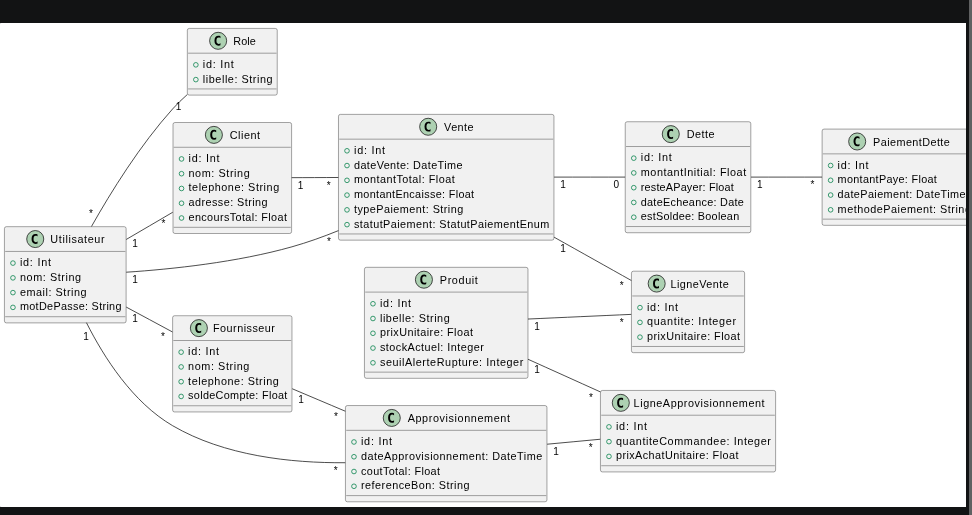
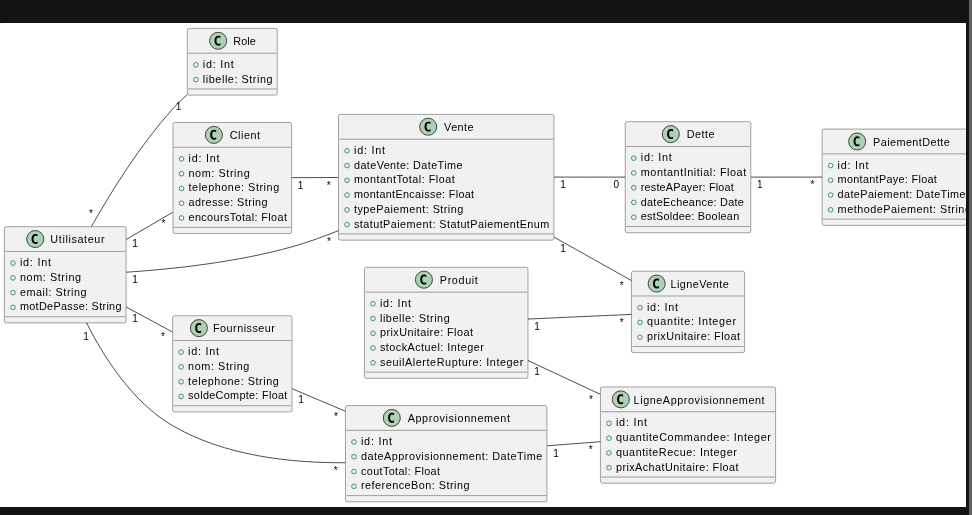
feat(supplies): ajout de la reception de bons de livraison et incrementation automatique du stock

Changed region(s): [[0.5556, 0.7456, 0.8025, 0.9631], [0.5556, 0.7146, 0.5864, 0.7456]]

diff --git a/views/approvisionnement/index.php b/views/approvisionnement/index.php
@@ -1,0 +1,165 @@
+ <?php 
+ $data = $data ?? [];
+ $approvisionnements = $data["approvisionnements"];
+ ?>
+ <div>
+     <!-- Supplies Stats Grid -->
+     <div style="display: grid; grid-template-columns: repeat(3, 1fr); gap: 16px; margin-bottom: 24px;">
+         <div class="panel-card" style="padding: 16px; display: flex; align-items: center; justify-content: space-between; border-left: 4px solid var(--accent);">
+             <div>
+                 <span style="font-size: 10px; color: var(--text-muted); text-transform: uppercase; font-weight: 700;">Coût Total des Entrées</span>
+                 <div style="font-size: 18px; font-weight: 800; color: white; margin-top: 4px;">4 520 000 F</div>
+             </div>
+             <span style="font-size: 24px;">📥</span>
+         </div>
+         <div class="panel-card" style="padding: 16px; display: flex; align-items: center; justify-content: space-between; border-left: 4px solid var(--warning);">
+             <div>
+                 <span style="font-size: 10px; color: var(--text-muted); text-transform: uppercase; font-weight: 700;">Bons de Réception (BL)</span>
+                 <div style="font-size: 18px; font-weight: 800; color: white; margin-top: 4px;">2 BL reçus</div>
+             </div>
+             <span style="font-size: 24px;">📄</span>
+         </div>
+         <div class="panel-card" style="padding: 16px; display: flex; align-items: center; justify-content: space-between; border-left: 4px solid var(--success);">
+             <div>
+                 <span style="font-size: 10px; color: var(--text-muted); text-transform: uppercase; font-weight: 700;">Fournisseurs Actifs</span>
+                 <div style="font-size: 18px; font-weight: 800; color: white; margin-top: 4px;">3 entreprises</div>
+             </div>
+             <span style="font-size: 24px;">🤝</span>
+         </div>
+     </div>
+
+     <div style="display: block;">
+         <!-- Full width: deliveries table list -->
+         <div class="panel-card" style="padding: 20px; margin-bottom: 0;">
+             <div class="panel-title" style="font-size: 15px; margin-bottom: 16px;">Bordereaux de Livraison (Réceptions)</div>
+             <table class="debt-table" id="supplies-main-table" style="font-size: 12px;">
+                 <thead>
+                     <tr>
+                         <th>Réf BL</th>
+                         <th>Fournisseur</th>
+                         <th>Valeur Lot</th>
+                         <th>Statut</th>
+                         <th>Actions</th>
+                     </tr>
+                 </thead>
+                 <tbody>
+                     <?php if (!empty($approvisionnements)): ?>
+                         <?php foreach ($approvisionnements as $appro): ?>
+                             <?php
+                                $approId = $appro['id'];
+                                $isRecu = ($appro['statut'] == 'RECU');
+                                ?>
+                             <tr>
+                                 <td style="font-weight: 700; color: var(--text-muted); padding: 8px 0;">
+                                     BL-<?= $approId ?>
+                                 </td>
+                                 <td style="padding: 8px 0;">
+                                     <?= $appro['fournisseur']['nom'] ?>
+                                     <div style="font-size:10px; color:var(--text-muted);">Tél : <?= $appro['fournisseur']['telephone'] ?></div>
+                                 </td>
+                                 <td style="font-weight: 800; color: var(--accent); padding: 8px 0;">
+                                     <?= $appro['coutTotal'] ?> F
+                                 </td>
+                                 <td style="padding: 8px 0;">
+                                     <?php if ($isRecu): ?>
+                                         <span class="badge badge-success">REÇU</span>
+                                     <?php else: ?>
+                                         <span class="badge badge-warning">EN COURS</span>
+                                     <?php endif; ?>
+                                 </td>
+                                 <td style="padding: 8px 0; display: flex; gap: 6px;">
+                                     <button class="btn-quick-action" onclick="toggleDetails('supply-details-<?= $approId ?>')">Lignes</button>
+                                     <?php if (!$isRecu): ?>
+                                         <button type="button" class="btn-quick-action" style="border-color: var(--success); color: var(--success); background: rgba(52, 211, 153, 0.05);" onclick="toggleDetails('supply-receive-drawer-<?= $approId ?>')">Réceptionner</button>
+                                     <?php endif; ?>
+                                 </td>
+                             </tr>
+                             <tr>
+                                 <td colspan="5" style="padding: 0; border: none;">
+                                     <!-- Drawer 1: Supply lines -->
+                                     <div class="details-drawer" id="supply-details-<?= $approId ?>">
+                                         <div style="font-weight: 700; font-size: 11px; color: var(--accent); margin-bottom: 6px;">Détails Réception :</div>
+                                         <table class="debt-table" style="font-size: 10px;">
+                                             <thead>
+                                                 <tr>
+                                                     <th>Produit</th>
+                                                     <th>Qté Commandée</th>
+                                                     <th>Qté Reçue</th>
+                                                     <th>Coût Unitaire</th>
+                                                     <th>Total</th>
+                                                 </tr>
+                                             </thead>
+                                             <tbody>
+                                                 <?php foreach ($appro['produits'] as $produit): ?>
+                                                     <tr>
+                                                         <td><?= $produit['libelle'] ?></td>
+                                                         <td><?= $produit['quantiteCommandee'] ?></td>
+                                                         <td><?= $produit['quantiteRecu'] ?></td>
+                                                         <td><?= $produit['prixAchatUnitaire'] ?> F</td>
+                                                         <td style="font-weight: 700; color: var(--accent);">
+                                                             <?= $produit['quantiteCommandee'] * $produit['prixAchatUnitaire'] ?> F
+                                                         </td>
+                                                     </tr>
+                                                 <?php endforeach; ?>
+                                             </tbody>
+                                         </table>
+                                     </div>
+
+                                     <!-- Drawer 2: Confirm Reception Form inline -->
+                                     <?php if (!$isRecu): ?>
+                                         <div class="details-drawer" id="supply-receive-drawer-<?= $approId ?>" style="border: 1px solid rgba(52, 211, 153, 0.3); background: linear-gradient(180deg, rgba(11, 15, 25, 0.95) 0%, rgba(11, 15, 25, 0.98) 100%); border-radius: 14px; padding: 18px 20px; box-shadow: 0 10px 30px rgba(0,0,0,0.4); max-width: 850px; margin: 12px 0;">
+
+                                             <!-- Header row -->
+                                             <div style="display: flex; justify-content: space-between; align-items: center; margin-bottom: 14px; border-bottom: 1px dashed var(--border-color); padding-bottom: 10px;">
+                                                 <div style="display: flex; align-items: center; gap: 8px;">
+                                                     <span style="font-size: 16px;">📦</span>
+                                                     <span style="font-weight: 800; font-size: 13px; color: var(--text-main);">
+                                                         Réceptionner le BL — <span style="color: var(--accent);">BL-<?= $approId ?></span>
+                                                     </span>
+                                                 </div>
+                                                 <div style="background: rgba(245, 158, 11, 0.12); border: 1px solid rgba(245, 158, 11, 0.3); padding: 4px 12px; border-radius: 20px; font-size: 11px; font-weight: 800; color: var(--warning);">
+                                                     Fournisseur : <?= $appro['fournisseur']['nom'] ?>
+                                                 </div>
+                                             </div>
+
+                                             <form method="POST" action="http://localhost:8000/approvisionnement/reception">
+                                                 <input type="hidden" name="approvisionnement_id" value="<?= $approId ?>">
+
+                                                 <div style="display: flex; flex-direction: column; gap: 10px; margin-bottom: 16px;">
+                                                     <?php foreach ($appro['produits'] as $produit): ?>
+                                                         <div style="background: rgba(255,255,255,0.02); border: 1px solid var(--border-color); border-radius: 10px; padding: 10px 14px; display: flex; justify-content: space-between; align-items: center;">
+                                                             <div>
+                                                                 <div style="font-weight: 700; font-size: 13px; color: white;"><?= $produit['libelle'] ?></div>
+                                                                 <div style="font-size: 11px; color: var(--text-muted); margin-top: 2px;">
+                                                                     Quantité théorique commandée : <strong style="color: var(--text-main);"><?= $produit['quantiteCommandee'] ?></strong>
+                                                                 </div>
+                                                             </div>
+                                                             <div style="display: flex; align-items: center; gap: 10px;">
+                                                                 <label style="font-size: 10px; color: var(--text-muted); text-transform: uppercase; font-weight: 700;">Qté Reçue :</label>
+                                                                 <input type="number" name="quantites_livrees[<?= $produit['produit_id'] ?>]" class="form-control" value="<?= $produit['quantiteCommandee'] ?>" min="0" required style="width: 100px; padding: 6px 10px; font-size: 13px; font-weight: 700; text-align: center; background: #0b0f1a;">
+                                                             </div>
+                                                         </div>
+                                                     <?php endforeach; ?>
+                                                 </div>
+
+                                                 <div style="display: flex; justify-content: flex-end;">
+                                                     <button type="submit" class="btn-submit btn-success" style="padding: 11px 24px; font-size: 12px; font-weight: 800; text-transform: uppercase; letter-spacing: 0.5px; display: flex; align-items: center; gap: 8px; border-radius: 10px;">
+                                                         ✓ Valider la Réception en Stock
+                                                     </button>
+                                                 </div>
+                                             </form>
+                                         </div>
+                                     <?php endif; ?>
+                                 </td>
+                             </tr>
+                         <?php endforeach; ?>
+                     <?php else: ?>
+                         <tr>
+                             <td colspan="5" style="text-align: center; padding: 20px; color: var(--text-muted);">Aucun approvisionnement trouvé.</td>
+                         </tr>
+                     <?php endif; ?>
+                 </tbody>
+             </table>
+         </div>
+     </div>
+ </div>

diff --git a/src/Repository/ApprovisionnementRepository.php b/src/Repository/ApprovisionnementRepository.php
@@ -1,0 +1,117 @@
+<?php
+
+namespace StoreManagerPro\Src\Repository;
+use PDO;
+
+class ApprovisionnementRepository extends BaseRepository
+{
+
+    public function __construct()
+    {
+        parent::__construct("approvisionnement");
+    }
+
+    public function findAllApproWithDetail(): array
+    {
+        $sql = "select 
+                    a.id as appro_id, 
+                    a.dateApprovisionnement, 
+                    a.couttotal, 
+                    case when la.quantitecommandee >= la.quantiterecu then 'RECU' else 'EN COURS' end as statut,
+                    f.id as fournisseur_id, 
+                    f.nom as fournisseur_nom, 
+                    f.telephone as fournisseur_telephone, 
+                    la.quantitecommandee, 
+                    la.quantiterecu, 
+                    la.prixachatunitaire, 
+                    p.id as produit_id, 
+                    p.libelle as produit_libelle
+                from approvisionnement a 
+                inner join fournisseur f on f.id = a.fournisseur_id
+                left join ligneapprovisionnement la on la.approvisionnement_id = a.id   
+                left join produit p on p.id = la.produit_id";
+
+        $stmt = $this->db->query($sql);
+        $results = $stmt->fetchAll(PDO::FETCH_ASSOC);
+
+        $approvisionnements = [];
+
+        foreach ($results as $r) {
+            $approId = $r['appro_id'];
+
+            if (!isset($approvisionnements[$approId])) {
+                $approvisionnements[$approId] = [
+                    'id' => $approId,
+                    'dateApprovisionnement' => $r['dateApprovisionnement'] ?? null,
+                    'coutTotal' => $r['couttotal'] ?? 0,
+                    'statut' => $r['statut'],
+                    'fournisseur' => [
+                        'id' => $r['fournisseur_id'],
+                        'nom' => $r['fournisseur_nom'],
+                        'telephone' => $r['fournisseur_telephone']
+                    ],
+                    'produits' => []
+                ];
+            }
+
+            if (!empty($r['produit_id'])) {
+                $produitKey = $r['produit_id'];
+                if (!isset($approvisionnements[$approId]['produits'][$produitKey])) {
+                    $approvisionnements[$approId]['produits'][$produitKey] = [
+                        'produit_id' => $r['produit_id'],
+                        'libelle' => $r['produit_libelle'],
+                        'quantiteCommandee' => $r['quantitecommandee'] ?? 0,
+                        'quantiteRecu' => $r['quantiterecu'] ?? 0,
+                        'prixAchatUnitaire' => $r['prixachatunitaire'] ?? 0
+                    ];
+                }
+            }
+        }
+
+        // echo "<pre>";
+        // var_dump($approvisionnements);
+        // echo "</pre>";
+        // die;
+
+
+        return $approvisionnements;
+    }
+
+    public function saveReception(int $approvisionnementId, array $quantitesRecues): bool
+    {
+        try {
+            $this->db->beginTransaction();
+
+            $sqlLine = "UPDATE ligneapprovisionnement 
+                        SET quantiterecu = :quantiteRecu 
+                        WHERE approvisionnement_id = :approId AND produit_id = :produitId";
+            
+            $stmtLine = $this->db->prepare($sqlLine);
+
+            $sqlStock = "UPDATE produit 
+                         SET stockactuel = stockactuel + :quantiteRecu 
+                         WHERE id = :produitId";
+
+            $stmtStock = $this->db->prepare($sqlStock);
+
+            foreach ($quantitesRecues as $produitId => $quantiteRecu) {
+                $stmtLine->execute([
+                    'quantiteRecu' => $quantiteRecu,
+                    'approId' => $approvisionnementId,
+                    'produitId' => $produitId
+                ]);
+
+                $stmtStock->execute([
+                    'quantiteRecu' => $quantiteRecu,
+                    'produitId' => $produitId
+                ]);
+            }
+
+            $this->db->commit();
+            return true;
+        } catch (\Exception $e) {
+            $this->db->rollBack();
+            return false;
+        }
+    }
+}

diff --git a/src/controller/ApprovisionnementController.php b/src/controller/ApprovisionnementController.php
@@ -1,0 +1,43 @@
+<?php
+
+namespace StoreManagerPro\Src\controller;
+
+use StoreManagerPro\Src\Core\View;
+use StoreManagerPro\Src\Repository\ApprovisionnementRepository;
+use StoreManagerPro\Src\Service\ApprovisionnemntService;
+
+class ApprovisionnementController
+{
+    private ApprovisionnemntService $approvisionnementService;
+
+    public function __construct()
+    {
+        $approvisionnementRepository = new ApprovisionnementRepository();
+        $this->approvisionnementService = new ApprovisionnemntService($approvisionnementRepository);
+    }
+
+    public function index()
+    {
+        $approvisionnements = $this->approvisionnementService->getApprovisionnementsWithDetails();
+
+        View::render('approvisionnement/index', [
+            'approvisionnements' => $approvisionnements
+        ]);
+    }
+
+    public function reception()
+    {
+        // var_dump($_POST);die;
+        if ($_SERVER['REQUEST_METHOD'] === 'POST') {
+            $approvisionnementId = isset($_POST['approvisionnement_id']) ? (int)$_POST['approvisionnement_id'] : 0;
+            $quantitesLivrees = isset($_POST['quantites_livrees']) ? $_POST['quantites_livrees'] : [];
+
+            if ($approvisionnementId > 0 && !empty($quantitesLivrees)) {
+                $this->approvisionnementService->receptionnerApprovisionnement($approvisionnementId, $quantitesLivrees);
+            }
+
+            header('Location: /approvisionnement');
+            exit();
+        }
+    }
+}

diff --git a/views/layout/base.html.php b/views/layout/base.html.php
@@ -480,8 +480,8 @@
                 <!-- <button class="nav-item" id="nav-dashboard">Tableau de Bord</button> -->
                 <a href="http://localhost:8000/pos" style="text-decoration: none;" class="nav-item" id="nav-pos">Ventes / POS</a>
                 <a href="http://localhost:8000/dette" style="text-decoration: none;" class="nav-item" id="nav-dettes">Gestion Dettes</a>
-                <!--<button class="nav-item" id="nav-supplies">Approvisionnements</button>
-                <button class="nav-item" id="nav-catalog">Produits & Tiers</button> -->
+               <a href="http://localhost:8000/approvisionnement" style="text-decoration: none;" class="nav-item" id="nav-supplies">Approvisionnements</a>
+                 <!--<button class="nav-item" id="nav-catalog">Produits & Tiers</button> -->
             </div>
 
             <div style="margin-left: auto; display: flex; align-items: center; gap: 14px;">

diff --git a/src/Service/ApprovisionnemntService.php b/src/Service/ApprovisionnemntService.php
@@ -1,0 +1,21 @@
+<?php
+
+namespace StoreManagerPro\Src\Service;
+
+use StoreManagerPro\Src\Repository\ApprovisionnementRepository;
+
+class ApprovisionnemntService {
+    private ApprovisionnementRepository $approvisionnementRepository;
+
+    public function __construct(ApprovisionnementRepository $approvisionnementRepository) {
+        $this->approvisionnementRepository = $approvisionnementRepository;
+    }
+
+    public function getApprovisionnementsWithDetails(): array {
+        return $this->approvisionnementRepository->findAllApproWithDetail();
+    }
+
+    public function receptionnerApprovisionnement(int $approvisionnementId, array $quantitesRecues): bool {
+        return $this->approvisionnementRepository->saveReception($approvisionnementId, $quantitesRecues);
+    }
+}

diff --git a/src/Core/Router.php b/src/Core/Router.php
@@ -33,6 +33,14 @@ class Router
                 'controller' => 'StoreManagerPro\Src\controller\DetteController',
                 'action' => 'remboursement'
             ],
+            '/approvisionnement' => [
+                'controller' => 'StoreManagerPro\Src\controller\ApprovisionnementController',
+                'action' => 'index'
+            ],
+            '/approvisionnement/reception' => [
+                'controller' => 'StoreManagerPro\Src\controller\ApprovisionnementController',
+                'action' => 'reception'
+            ],
 
         ];
     }

diff --git a/src/controller/DetteController.php b/src/controller/DetteController.php
@@ -5,7 +5,6 @@ namespace StoreManagerPro\Src\controller;
 use StoreManagerPro\Src\Core\View;
 use StoreManagerPro\Src\Repository\DetteRepository;
 use StoreManagerPro\Src\Service\DetteService;
-use Exception;
 
 class DetteController
 {

diff --git a/devlog.md b/devlog.md
@@ -39,3 +39,7 @@ j'ai vu aussi si la classe paarent et enfant on des methode qui se ressemble on 
 - **Heure de réalisation** : 09h00 - 11h30
 - **Ce qui a été fait** : Ajout du service de remboursement partiel et mise a jour des statuts SOLDEE
 - **Difficultés / Obstacles** : Le probleme rencontrer ici est le fait de me rendre compte mon diagramme de classe ne pouvais pas resoudre les besoins de l'interface. J'ai du faire un retour en arriere corriger le diagramme les entite etc. Apart ca aussi la logique qui m'as permis de reorganiser la la liste des dette en imbriquant les produits et paiements concerne m'as pris un peut de temps car je voulais faire une seul requette de jointure qui ammene tout les information puis faire le groupage au niveau du repository.
+
+- **Heure de réalisation** : 11h30 - 13h30
+- **Ce qui a été fait** : Ajout de la reception de bons de livraison et incrementation automatique du stock
+- **Difficultés / Obstacles** : RAS
